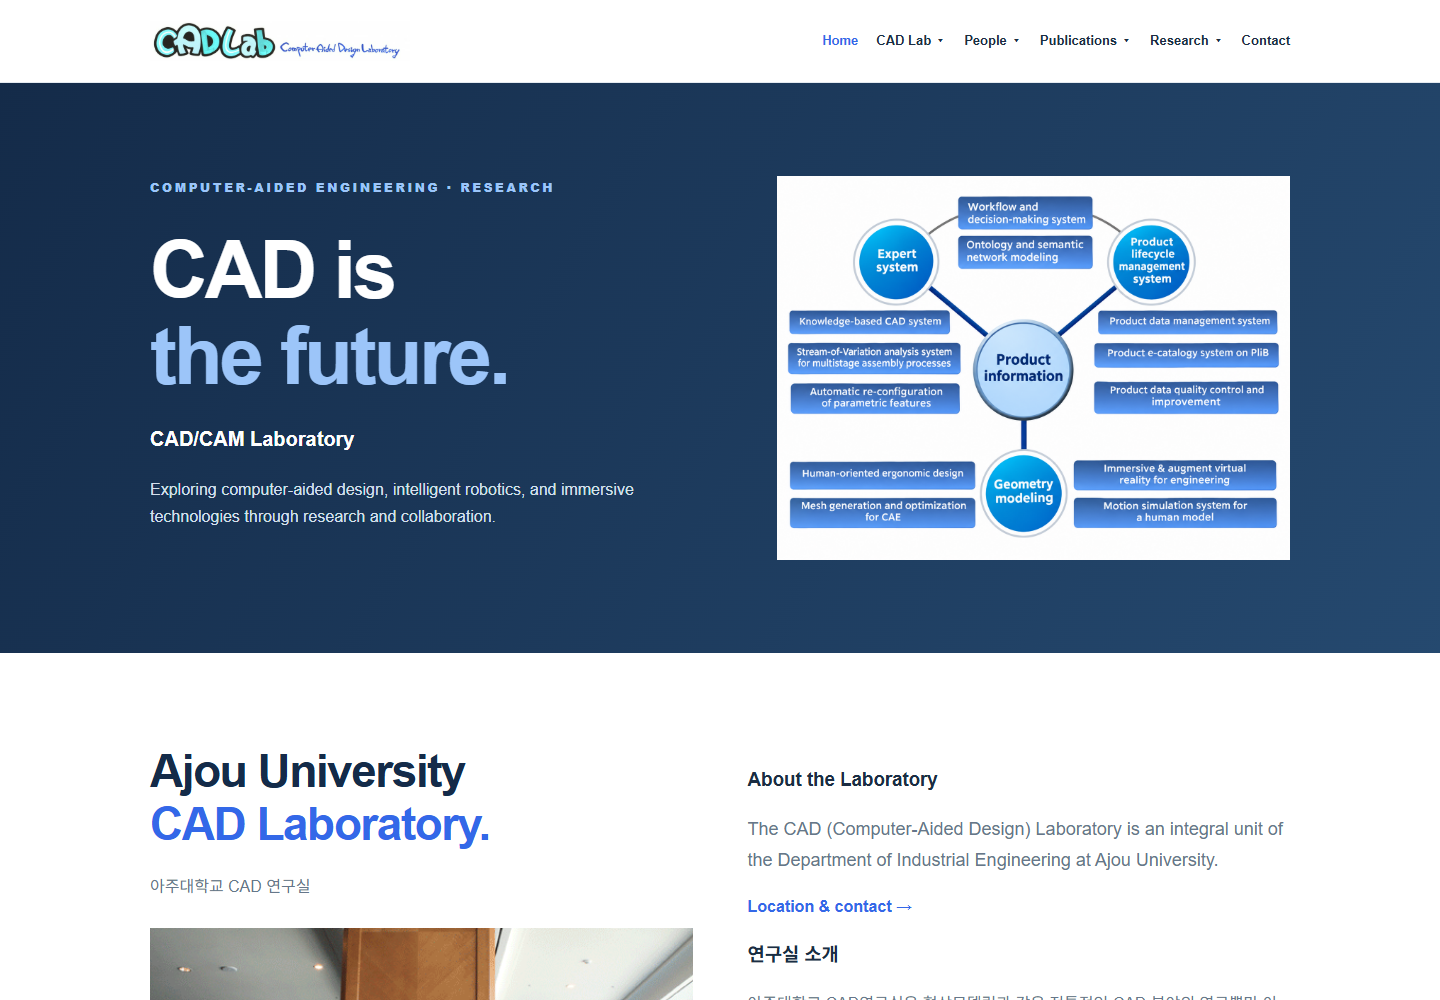
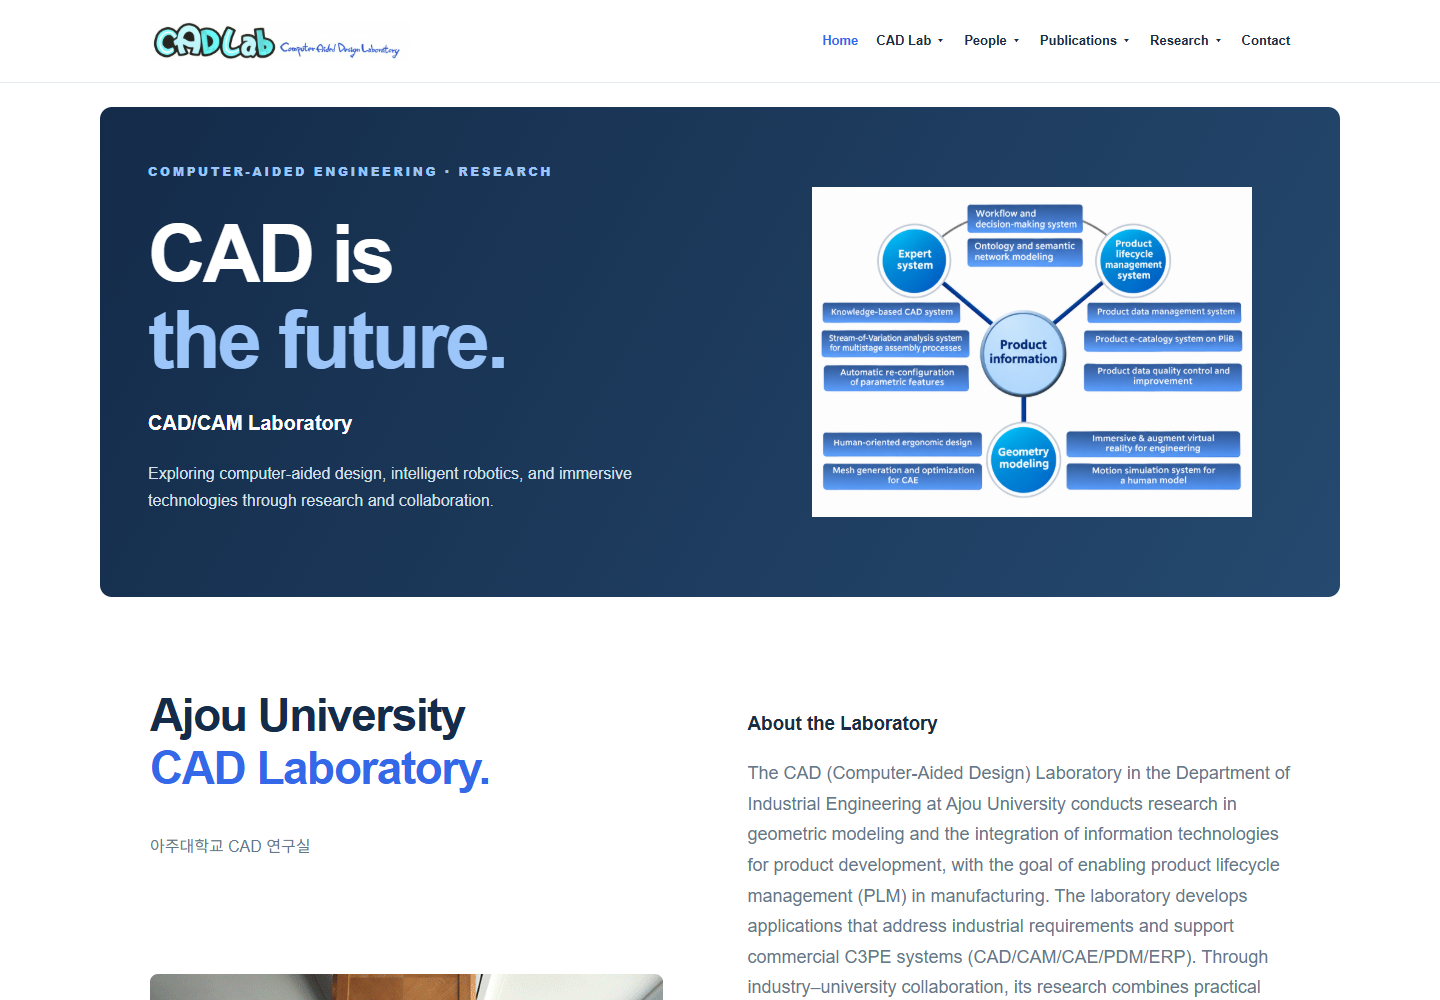
Constrain Hero width and tighten homepage proportions

diff --git a/assets/styles.css b/assets/styles.css
@@ -14,6 +14,10 @@ a:focus-visible,button:focus-visible{outline:3px solid #65b9ff;outline-offset:3p
 .nav nav a:hover{color:var(--blue)}
 .menu{display:none}
 .hero{background:linear-gradient(120deg,#142b49,#25496f);color:#fff}
+.home-page .hero{width:min(1240px,calc(100% - 48px));margin:24px auto 0;border-radius:12px;overflow:hidden}
+.home-page .hero-layout{min-height:490px;gap:48px;width:calc(100% - 96px)}
+.home-page .hero-copy{padding:48px 0}
+.home-page .hero-art img{max-width:440px}
 .hero-layout{min-height:570px;display:grid;grid-template-columns:minmax(0,1.05fr) minmax(0,.95fr);gap:60px;align-items:center}
 .hero-copy{padding:70px 0}
 .eyebrow{color:#9cc5f9;font-size:12px;font-weight:800;letter-spacing:2.7px}
@@ -74,6 +78,9 @@ h2{font-size:clamp(30px,3.8vw,46px);line-height:1.15;letter-spacing:-1.5px;color
 .footerrow>div:last-child{text-align:right;font-size:12px}
 @media(max-width:980px){.hero-layout{gap:20px}}
 @media(max-width:760px){.wrap{width:min(100% - 36px,1140px)}
+.home-page .hero{width:calc(100% - 36px);margin-top:16px;border-radius:10px}
+.home-page .hero-layout{width:calc(100% - 36px);min-height:auto;gap:0}
+.home-page .hero-copy{padding:36px 0 24px}
 .hero-layout{grid-template-columns:1fr;gap:0;min-height:auto}
 .hero-copy{padding:70px 0 20px}
 .hero h1{letter-spacing:-2px}

diff --git a/.github/review/hero/README.md b/.github/review/hero/README.md
@@ -97,3 +97,7 @@ Removed the selected Location & contact link. Expanded the English About paragra
 ## Group photo balance
 
 Increased the group photo cap from 480 to its native 513 px width and centered it vertically in the space below the left heading, balancing the expanded bilingual introduction. Mobile uses normal document flow with centered proportional imagery. Five-width checks and 30 Logo navigation checks passed; About screenshots refreshed.
+
+## Compact homepage Hero
+
+Constrained the Hero to 1240 px with centered outer margins and subtle rounded corners, reduced desktop minimum height to 490 px, tightened copy padding and capped the diagram at 440 px. Inner text aligns closely with the main content column. Mobile uses 18 px outer margins and reduced padding. Full image framing and text preserved. Five-width checks and 30 Logo navigation checks passed; screenshots refreshed.
